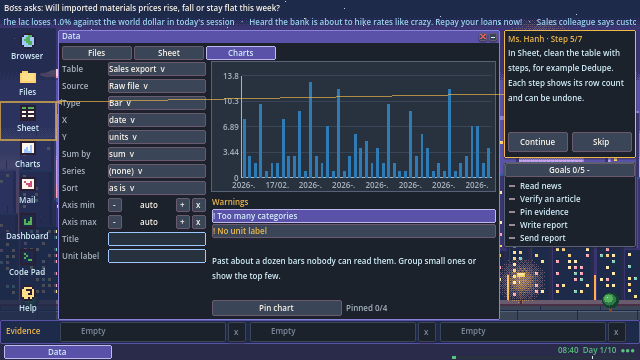
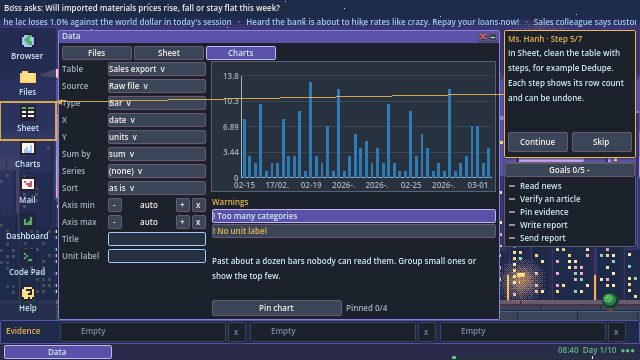
T-034: dashboard lock, handoff, test updates

diff --git a/game-studio/godot/docs/HANDOFF-T-034.md b/game-studio/godot/docs/HANDOFF-T-034.md
@@ -1,0 +1,92 @@
+# Handoff T-034: Sheet app, chart builder, dashboard, report attachments (branch codex/T-034, base v2)
+
+Worktree `D:\Dev\ai-company-t034`. Spec `docs/SPEC-T-034.md`. No push, no merge. English text only, palette v4 only.
+
+## What was built
+**Logic (headless, `scripts/data/`)**
+- `step_forms.gd`: dialog fields of the 13 operations, `build` (params to step), `params_from_step` (editing), `describe` (plain words), completeness check.
+- `sheet_model.gd`: one open file: steps with add/edit/delete/reorder/undo/redo/reset, row-count preview, per-step diff (removed and changed rows), column statistics, "Looks fine?" profile (blank counts, distinct values, value lists of short columns; no defect hints).
+- `session.gd`: the run's data state over the public `DataGame` API: today's files, one Sheet per opened file, pinned charts/tables/KPI tiles (max 4), report attachments (max 3), dashboard cells (2x2), chosen findings, the optional `analysis` payload. Opening a file costs `data.minutes_per_file` (10), pinning costs `data.minutes_per_chart` (10); never Energy.
+- `analysis_review.gd`: review-only formatter for the step "Your analysis" (reads the review record after the day ended).
+- `data_game.gd`: added `score_analysis(day, analysis)` (the scoring hook) and `analysis_review(day)` (same gate as `review`).
+
+**UI (`scripts/v2/`)**
+- New desktop icons Files, Sheet, Charts (Sheet and Charts and Files are three tabs of one **Data** window); Insight BI is now **Dashboard** (tabs Company | Dashboard). Icon tiles are 34 px high now (8 icons). Three new 8x8 icons (`app_files`, `app_sheet`, `app_charts`, palette PASS 67 PNG).
+- `windows/data_window.gd`, `data/files_view.gd` (name, rows, NEW badge, one plain day-based "Looks messy?" hint), `data/sheet_view.gd` + `data/grid_view.gd` (virtualized grid, header type marks, column menu with 8 actions, 13-operation toolbar, dialogs with dropdown pickers, number steppers and chips, live "rows a -> b" preview and error text, step list with edit/up/down/delete, Undo, Redo, Raw, show-removed-rows view, changed-row highlight, summary strip, zoom 1x/2x, Looks fine?, Pin table), `data/chart_view.gd` + `data/chart_canvas.gd` (table raw or cleaned, type, X, Y, aggregation, series, sort, axis min/max with auto, title, unit; code-drawn axes, ticks, labels, legend, gridlines; quality flags from `check_chart` as friendly warnings with teaching text, Pin chart), `data/dashboard_view.gd` (2x2 grid, place or clear tiles, KPI tile dialog; locked after Send), `data/ui_kit.gd`.
+- Mail: button **Analysis (n)** opens `windows/analysis_panel.gd` (pinned items with thumbnails, Attach/Detach, findings picker). `submit_report` input gets `analysis` only when the player did data work.
+- Review: with an analysis in the report the meeting has a 7th step "Your analysis" before Career (cleaning per defect type, findings right/close/wrong with the answer, chart flags, reference steps in plain words, Handbook card mapped from the defect type through `data/cases.json` and `data/handbook.json`, analysis bonus). Without an analysis the review is unchanged (6 steps).
+- Tutorial: 3 new coach steps (Files, Sheet, Charts) between Pin and Mail (12 steps, 7 groups), skippable, Help replays. The day-1 file is the generated sales export (1 easy defect); the hand-made table of `docs/TUTORIAL-CASES.md` was not used because the grader needs the generator's manifest. The hint text says generically that exports may repeat rows or spell names differently.
+
+**Minimal edits to `scripts/world/` (documented)**
+- `world_game.gd`: `spend_minutes(n)` (time only, closed after Send); `analysis_scorer` Callable, called only when the report has an `analysis`; adds a signed adjustment to the report delta (`result.analysis`). Without `analysis` nothing runs.
+- `report.gd`: `analysis` must be a Dictionary if present (`invalid_analysis`).
+
+**Config** `data/datasets.json` section `data`: `minutes_per_file` 10, `minutes_per_chart` 10, `max_pinned` 4, `max_attached` 3, `analysis_bonus` 1.0 trust, `analysis_good` 0.6, `analysis_wrong_penalty` 0.0, `analysis_wrong_below` 0.3.
+
+## Decisions
+- Attachments: up to 4 pinned items (= dashboard cells), up to 3 attached to the report, independent from the 3 news evidence slots (the world's `max_evidence` still governs news).
+- Scoring: bonus = `analysis_bonus` x grade when the grade is at least `analysis_good`; a low-grade analysis equals no analysis (default penalty 0). The grade is the mean `DataGame` total of the files touched. The pipeline graded per file is the Sheet's final steps; the chart graded is the first attached chart of that file.
+- Hidden truth: UI code only calls `files_today/apply_pipeline/chart_data/check_chart` (and the engine's public Dataset/Pipeline classes); the review record is read only in `review_scene.gd` through `analysis_review(day)` after the day ended. Leak probe: `test_t034_logic` scans every new UI/session script for manifest/reference/truth/recipe/expected/hidden/grader words and hidden engine loads.
+- Taskbar: with five windows the entries share the width left of the clock (85 to 108 px wide).
+- Data seed: `desktop.data_seed` is set by the flow from `seed_used`.
+
+## Tests (final run after the last code change, one Godot process at a time)
+| Test | Checks | Failures |
+| --- | --- | --- |
+| **test_t034_logic (new, headless)** | 393 | 0 |
+| **test_t034_layout (new, window)** | 15013 | 0 |
+| **test_t034_mouse (new, real mouse)** | 91 | 0 |
+| test_t033_ops | 186 | 0 |
+| test_t033_data | 17781 | 0 |
+| test_t033_api | 21940 | 0 |
+| test_sim | 2634 | 0 |
+| test_ui | 106 | 0 |
+| test_world | 32511 | 0 |
+| test_life | 136 | 0 |
+| test_vitals | 918 | 0 |
+| test_daily_flow | 144 | 0 |
+| test_t027 | 276 | 0 |
+| test_t030_meta | 475 | 0 |
+| test_t030_flow | 57 | 0 |
+| test_t031_english | 155 | 0 |
+| test_v2_t023 | 91 | 0 |
+| test_v2_flow | 1436 | 0 |
+| test_v2_commute | 735 | 0 |
+| test_v2_assets | 482 | 0 |
+| test_v2_popups | 240 | 0 |
+| test_v2_t021 | 314 | 0 |
+| test_v2_desktop | 4736 | 0 |
+| test_v2_layout_render | 6080 | 0 |
+| test_v2_screens_render | 22584 | 0 |
+| test_t026_render | 3074 | 0 |
+| test_t026_mouse | 34 | 0 |
+| test_t027_mouse | 30 | 0 |
+| test_t030_render | 6430 | 0 |
+| test_t030_mouse | 45 | 0 |
+| test_v2_mouse | 171 | 0 with `--seed=104/7/555`; see note |
+
+`balance_sim` and `balance_world`: output identical to a clean export of base `8bdaf97` (elapsed line excluded). `tools/check_palette.gd`: PASS 67 PNG, 112 colors.
+
+Note: `test_v2_mouse` without a fixed seed fails one check ("the evening shows the wallet with the day's pay") for some random seeds. The same failure occurs on the untouched base export with `--seed=11` and `--seed=90210`, so it is an existing seed-dependent flake, not caused by T-034.
+
+What the new tests cover: all 13 forms build and preview, step round trip through `params_from_step`, Sheet undo/redo/reorder/edit/delete/reset/diff/stats/profile, result equals `DataGame.apply_pipeline`, minutes but no Energy, pin/attach/dashboard limits and swaps, findings picker, payload shape, rejection of a non-dictionary analysis, no analysis means the hook never runs, a cleaner bot (reference steps, chart, findings; mean grade 0.95) beats a sloppy bot (drop missing rows, wrong findings; mean grade 0.15) over 6 seeds, the cleaner earns a positive bonus that is added to the delta, the sloppy one equals no analysis, penalty config, closed day scores 0, leak scan. Layout: Files, Sheet (small, 189-row, zoom 2x), column menu, all 13 dialogs, step list with a failing step, removed-rows view, Looks fine?, every chart type, chart flags, Dashboard, KPI dialog, Mail with analysis, review step; nothing outside 640x360, no sibling overlap, label and button text fits, fonts at least 8, hit targets at least 14x14, only about 12 rows drawn of 189. Mouse: the full path of the spec, with real clicks, to the review step "Your analysis".
+
+## Changed existing checks (all by design of T-034)
+- `test_v2_t021`: eight icons, "Insight BI" caption now "Dashboard", 12 tutorial steps in 7 groups, after Pin the coach goes to the Files step.
+- `test_v2_mouse`: same tutorial step after Pin.
+- `test_v2_desktop`: window signal count is 4 per window (five windows).
+- `test_v2_assets`: three new icons in the inventory.
+- `test_v2_layout_render`: task buttons 85 to 108 px wide instead of exactly 108.
+- `test_t033_api` source scans: `session.gd` may touch `world._scenario`; `desktop.gd` and `review_scene.gd` may use `scripts/data/`.
+- `strings_v2.json`: `windows.company` is "Dashboard", new `windows.data/files/sheet/charts`, new `data_ui` section (all chart flag and teach texts), `errors.invalid_analysis`, 3 tutorial steps, "Step %d/7".
+
+## Honest assessment at 640x360
+Usable with the mouse. The grid shows about 12 columns-wide-by-14-rows at 1x with 8 px text and 12 px rows; at 2x only about 6 rows and 2 columns fit, so 2x is for reading a few cells, not for working. The 13-button toolbar, step list and dialogs fit with 14 px targets, but dialogs cover the grid while open and the step panel only shows short names (full wording in the detail line and tooltip). Charts are readable (8 px labels), date axis labels lose the year. A new player needs the tutorial or Looks fine? to start; there is no hint about which step to try next. Screenshots are in `docs/screenshots-T-034/`; all were viewed.
+
+## Limitations
+- Editing text fields is by keyboard, but all other input is mouse; the mouse test sets the unit label text directly instead of typing keys.
+- KPI tiles are one aggregate of a column of the cleaned table (no 7-day window); tables are pinned as titles, not previews.
+- Chart grading uses the Sheet's final pipeline, so a chart built from the raw table is judged on its spec only.
+- The review "reference steps" are the engine's reference steps in words; the Handbook mapping is minimal (T-035 extends it); the coaching voices are not used.
+- Time is spent on opening a file and on pinning (also for KPI tiles); unpinning refunds nothing. Balance of those costs and of the bonus is T-036.
+- The Sheet does not warn about, or block, a pipeline that groups before cleaning (the grader credits cleaning on the row-level table before grouping).
